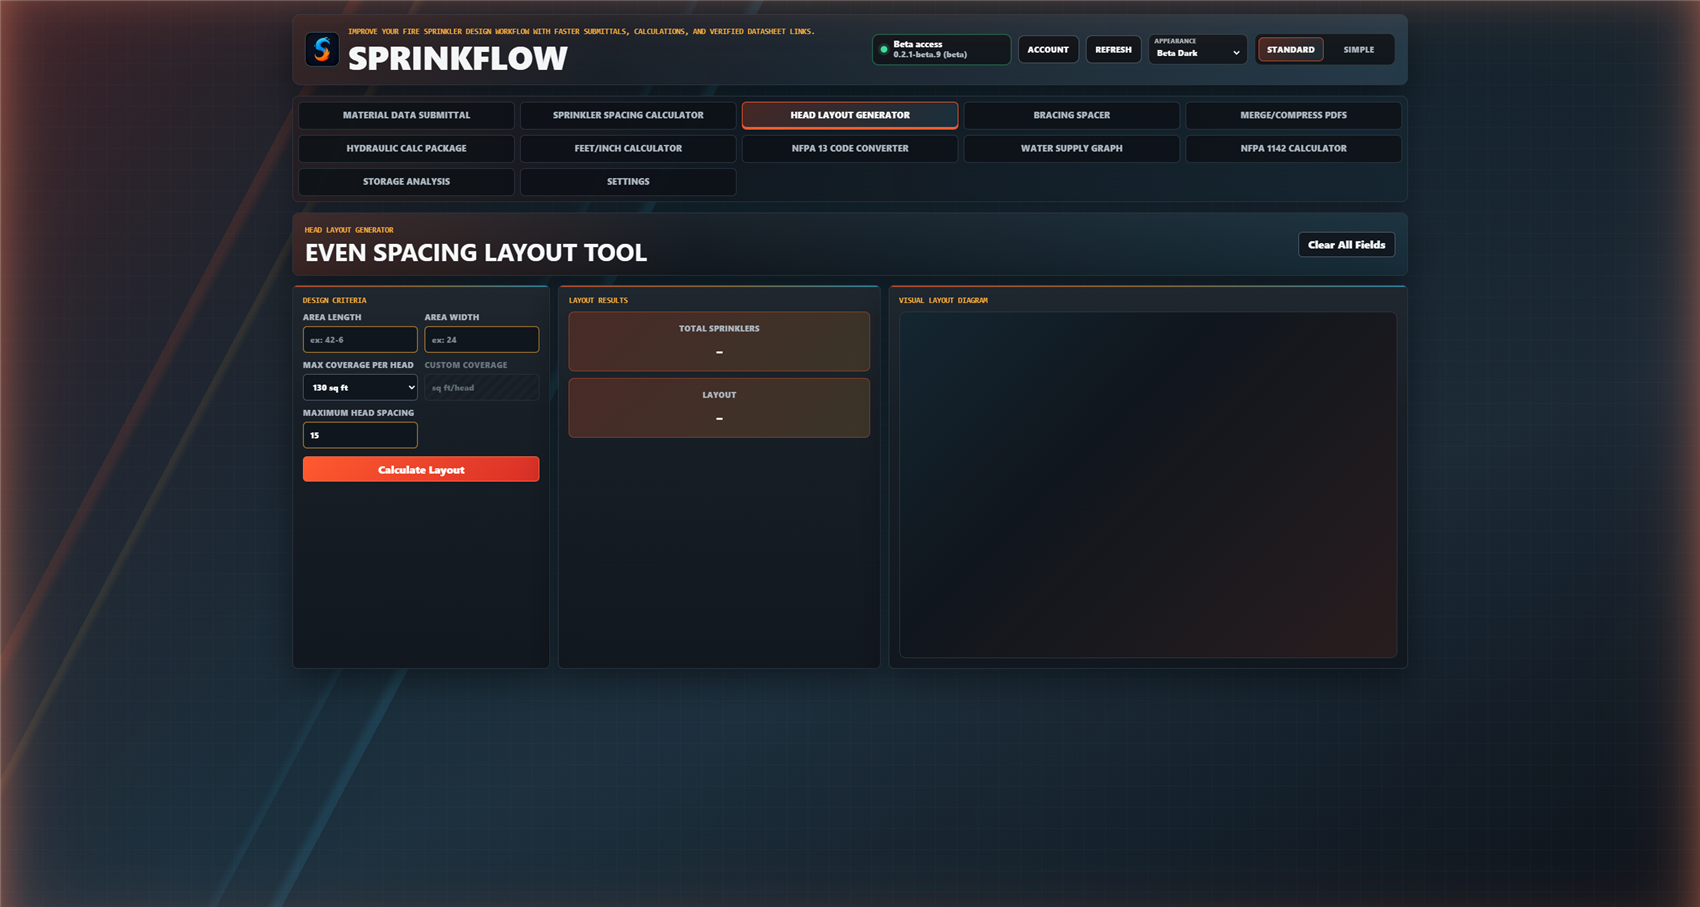
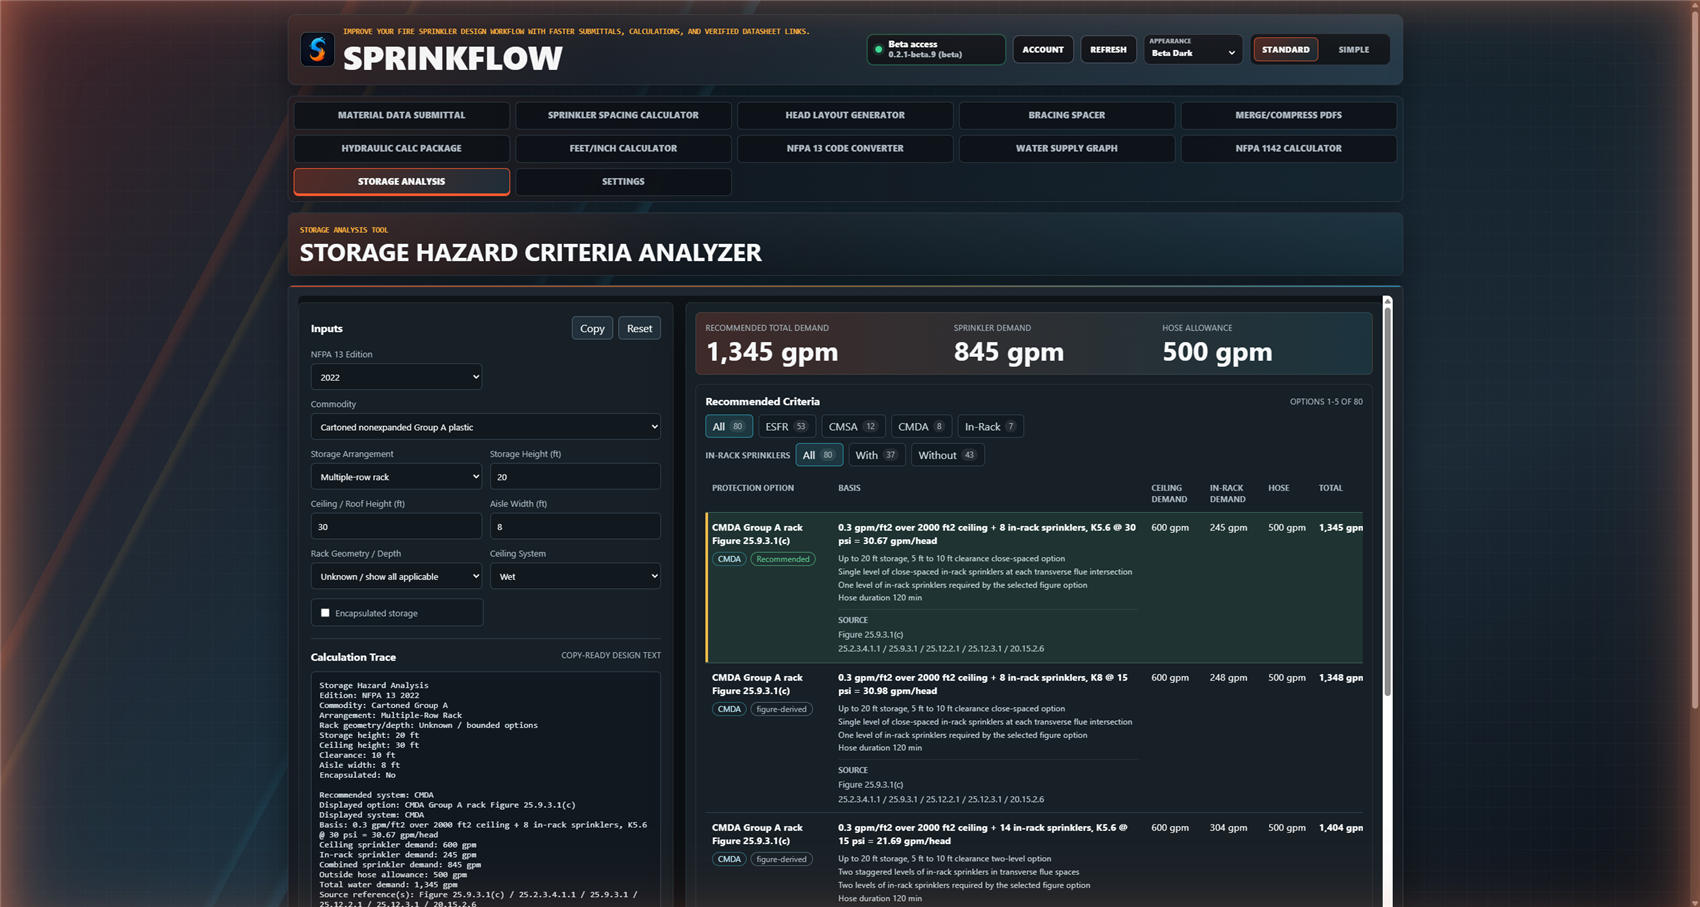
Update hero copy + Design Tools screenshot

diff --git a/index.html b/index.html
@@ -3,10 +3,10 @@
 <head>
   <meta charset="utf-8" />
   <meta name="viewport" content="width=device-width, initial-scale=1" />
-  <title>SprinkFlow — Fire sprinkler submittals in minutes</title>
-  <meta name="description" content="SprinkFlow builds formatted fire-sprinkler material submittals in minutes. AI-assisted cut-sheet and hydraulic-calc import, a built-in datasheet catalog, and design tools made for sprinkler designers." />
+  <title>SprinkFlow — Material data submittals in seconds</title>
+  <meta name="description" content="SprinkFlow builds formatted fire-sprinkler material data submittals in seconds. AI-assisted cut-sheet and hydraulic-calc import, a built-in datasheet catalog, and design tools made for sprinkler designers." />
   <link rel="icon" href="./assets/logo.png" type="image/png" />
-  <meta property="og:title" content="SprinkFlow — Fire sprinkler submittals in minutes" />
+  <meta property="og:title" content="SprinkFlow — Material data submittals in seconds" />
   <meta property="og:description" content="AI-assisted material submittals and design tools built for fire sprinkler designers." />
   <meta property="og:type" content="website" />
   <link rel="preconnect" href="https://fonts.googleapis.com" />
@@ -40,7 +40,7 @@
   <section class="hero" id="top">
     <div class="hero-inner reveal">
       <div class="eyebrow"><span class="dot"></span> Private beta — free for fire sprinkler designers</div>
-      <h1 class="hero-title">Fire sprinkler submittals,<br /><span class="grad">done in minutes.</span></h1>
+      <h1 class="hero-title">Material Data Submittals,<br /><span class="grad">done in seconds.</span></h1>
       <p class="hero-sub">SprinkFlow turns a pile of cut sheets and calcs into a clean, bookmarked submittal package — with AI that reads the documents for you. Built by a sprinkler designer, for sprinkler designers.</p>
       <div class="hero-cta">
         <a href="#signup" class="btn btn-primary">Get the beta — free</a>